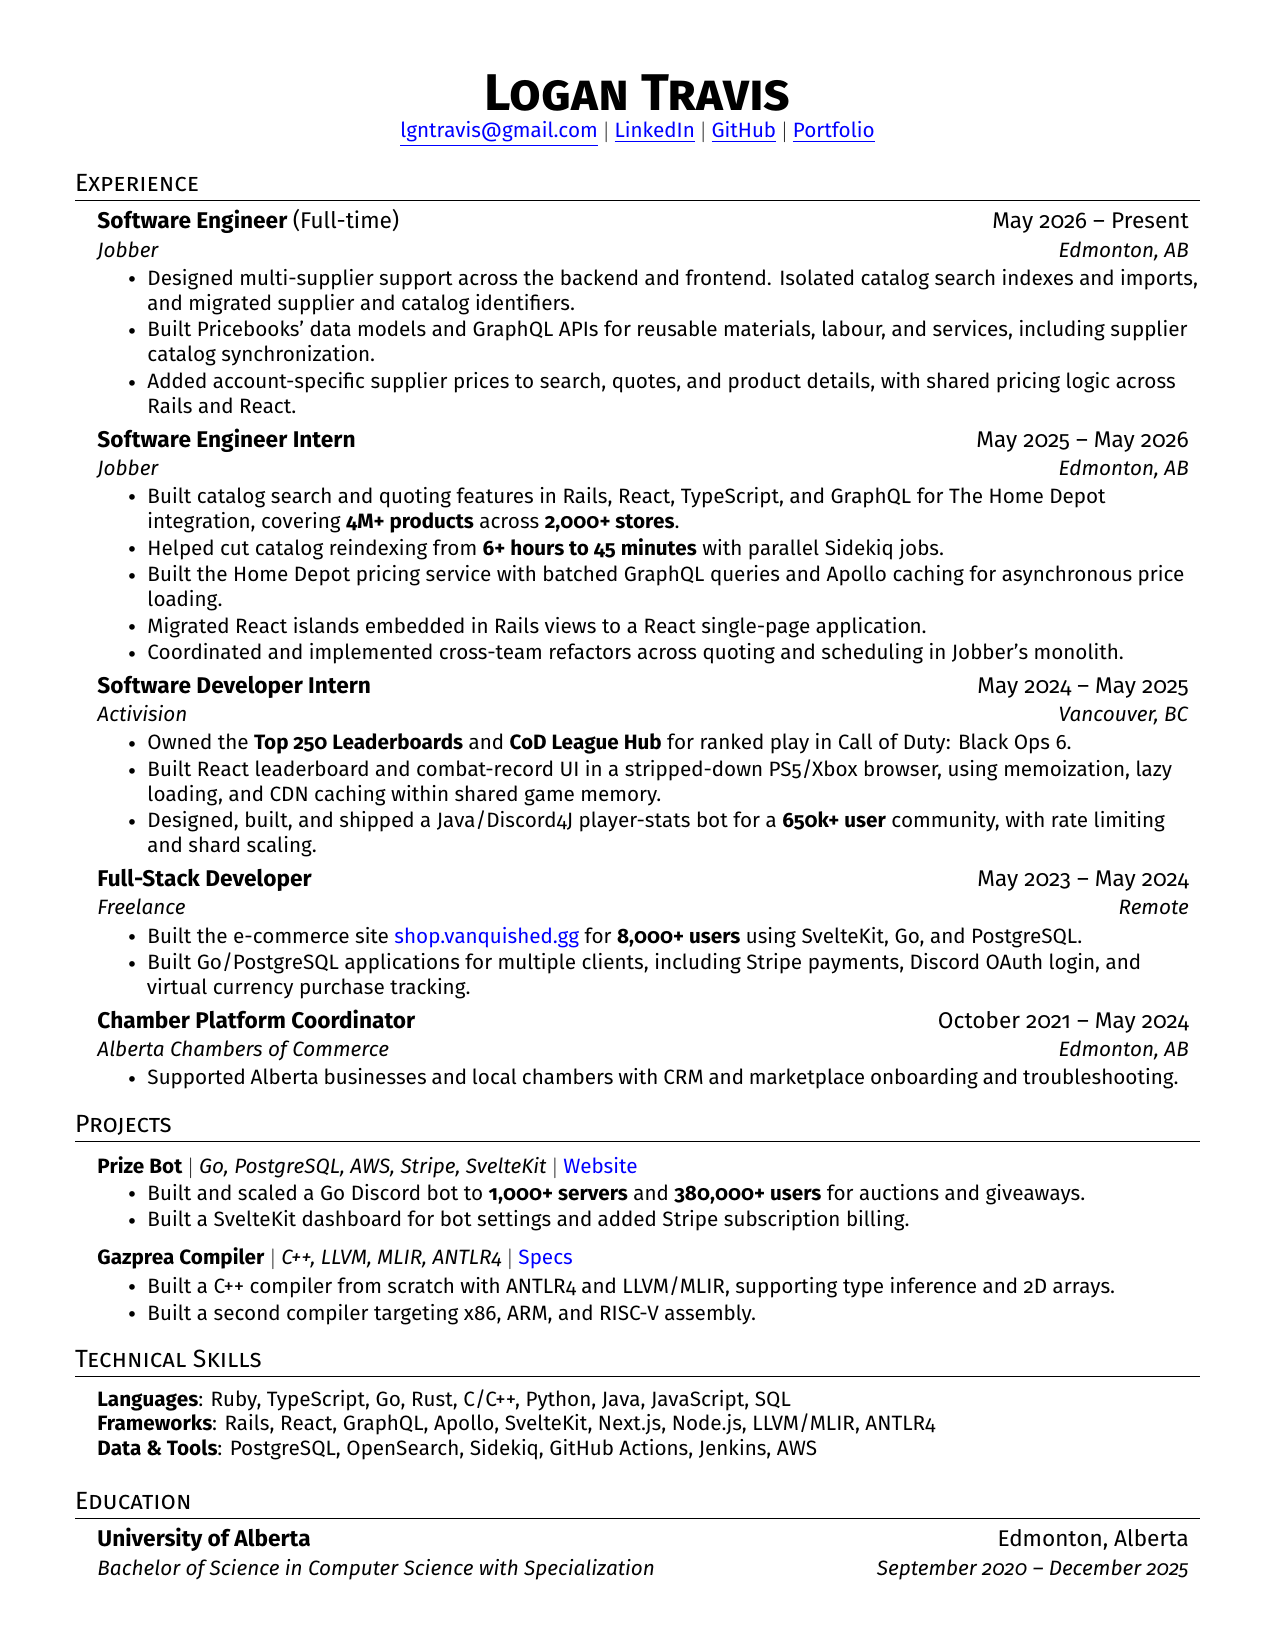
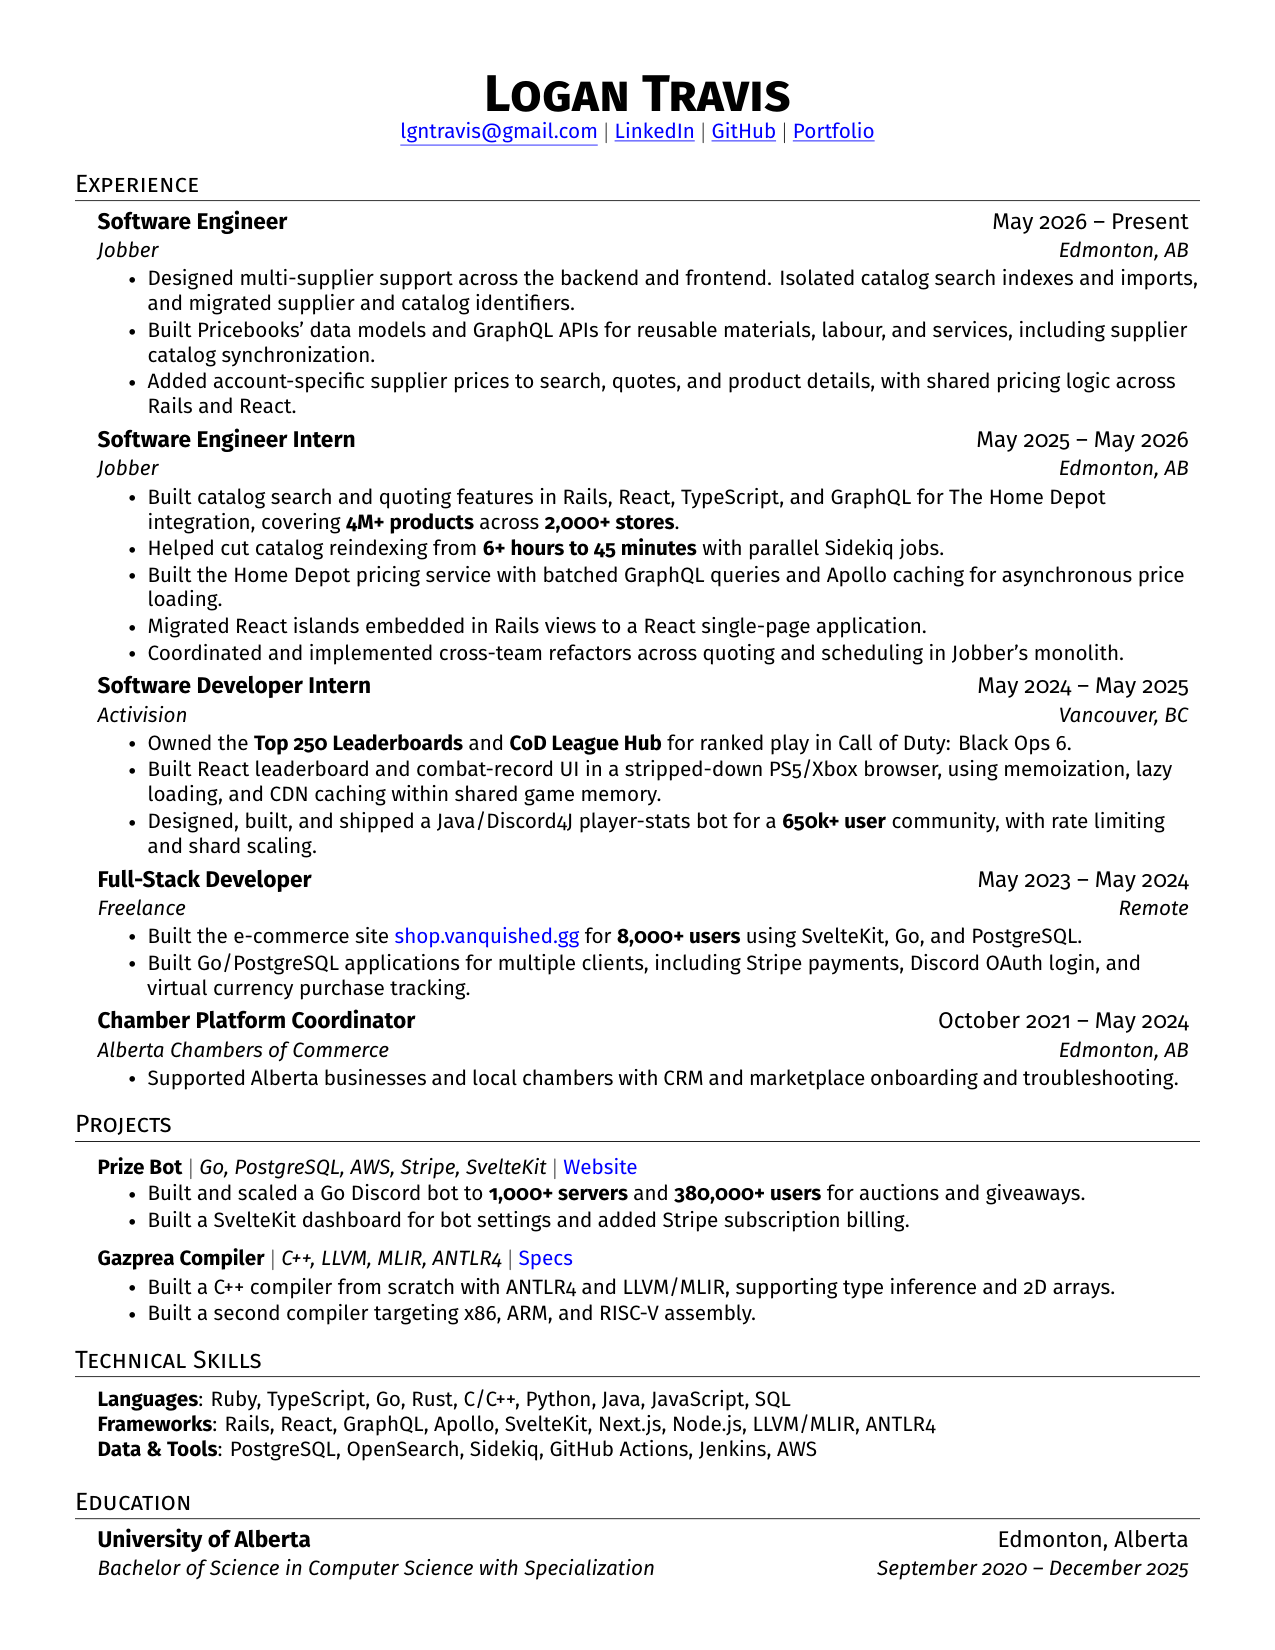
Remove full-time qualifier from Jobber title

diff --git a/2-page/resume.tex b/2-page/resume.tex
@@ -147,7 +147,7 @@
 \resumeSubHeadingListStart
 
 \resumeSubheading
-{Software Engineer \textnormal{(Full-time)}}{May 2026 -- Present}
+{Software Engineer}{May 2026 -- Present}
 {Jobber}{Edmonton, AB}
 \resumeItemListStart
 \resumeItem{Designed multi-supplier support across Supply's backend and frontend, covering catalogs, account connections, and pricing. Isolated catalog search indexes and imports, with staged migrations for supplier and catalog identifiers.}

diff --git a/resume.tex b/resume.tex
@@ -147,7 +147,7 @@
 \resumeSubHeadingListStart
 
 \resumeSubheading
-{Software Engineer \textnormal{(Full-time)}}{May 2026 -- Present}
+{Software Engineer}{May 2026 -- Present}
 {Jobber}{Edmonton, AB}
 \resumeItemListStart
 \resumeItem{Designed multi-supplier support across the backend and frontend. Isolated catalog search indexes and imports, and migrated supplier and catalog identifiers.}
